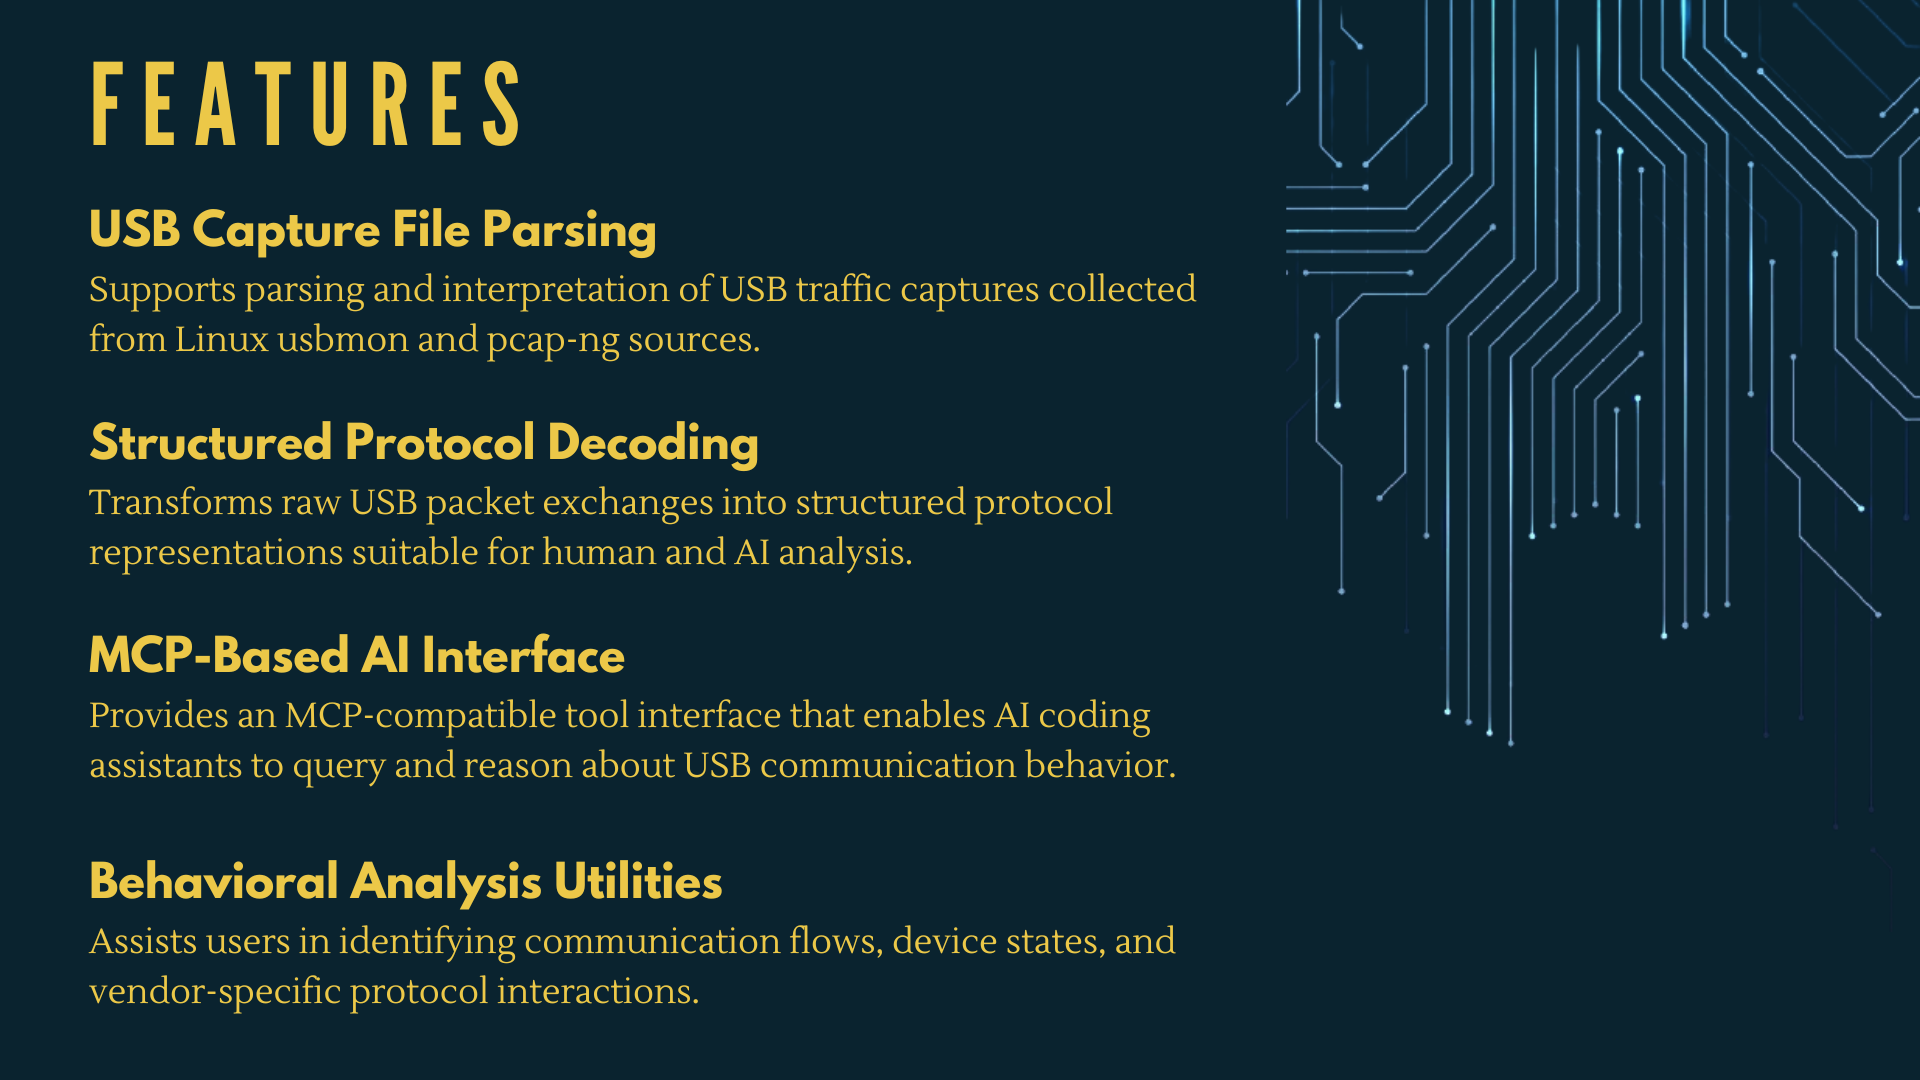
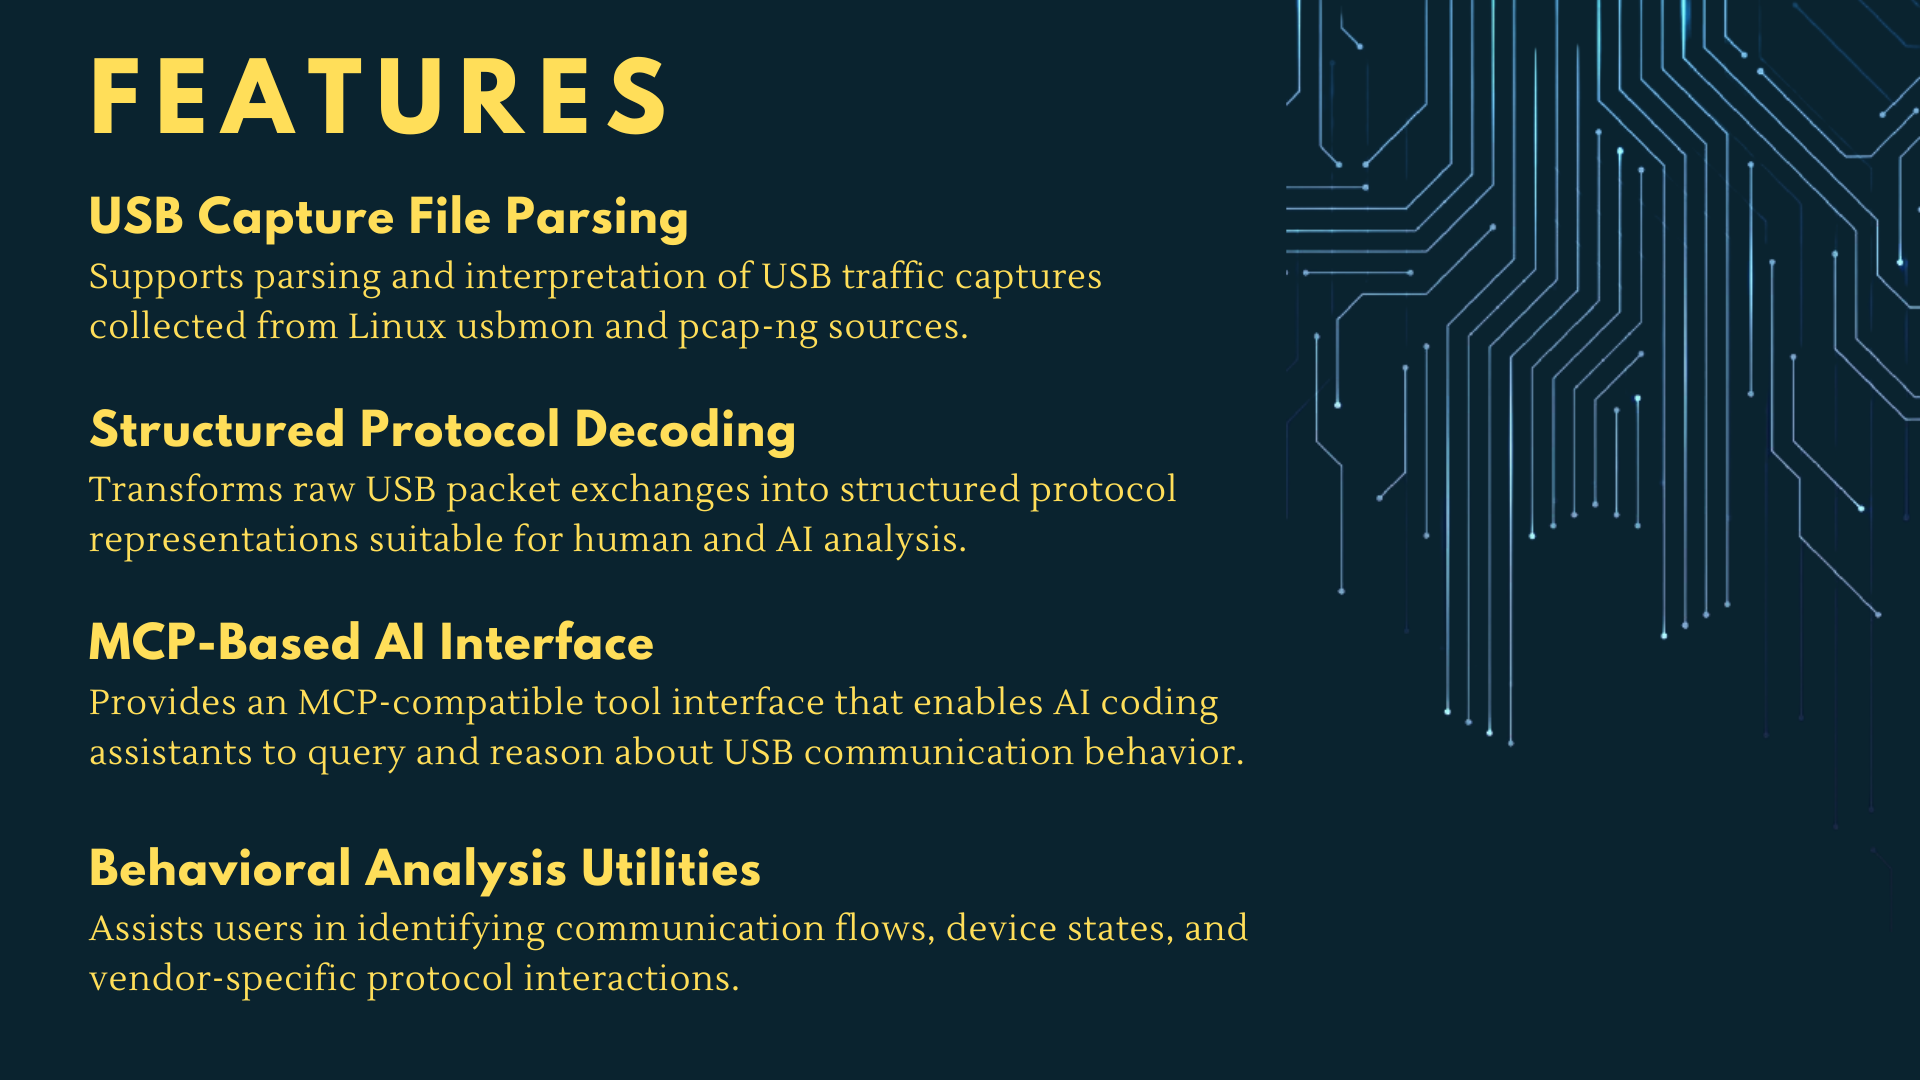
feat: add form, fix: replace bsu.png with more readable version of image

diff --git a/index.html b/index.html
@@ -296,7 +296,7 @@
               </p>
               <div
                 id="sentimentCarousel"
-                class="carousel slide mb-3"
+                class="carousel carousel-dark slide mb-3"
                 data-bs-ride="false"
               >
                 <div class="carousel-indicators">
@@ -370,8 +370,28 @@
 
       <section id="contact" class="py-4">
         <div class="row">
-          <div class="col-12">
+          <div class="col-md-6">
             <h2 class="section-title">Contact</h2>
+            <form class="contact-form">
+              <div class="mb-3">
+                <label for="name" class="form-label">Name</label>
+                <input type="text" class="form-control" id="name" required />
+              </div>
+              <div class="mb-3">
+                <label for="email" class="form-label">Email</label>
+                <input type="email" class="form-control" id="email" required />
+              </div>
+              <div class="mb-3">
+                <label for="message" class="form-label">Message</label>
+                <textarea
+                  class="form-control"
+                  id="message"
+                  rows="4"
+                  required
+                ></textarea>
+              </div>
+              <button type="submit" class="btn btn-primary">Submit</button>
+            </form>
           </div>
         </div>
       </section>